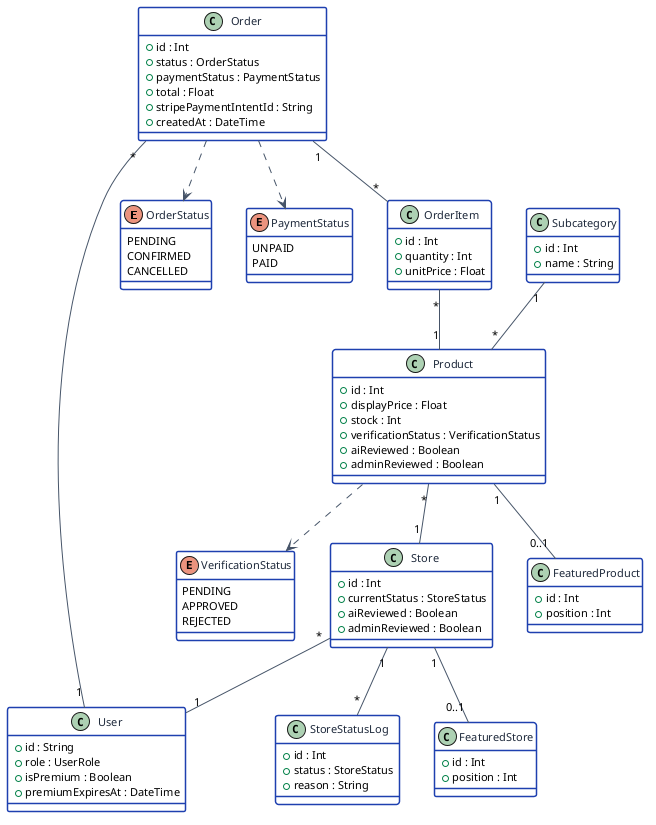
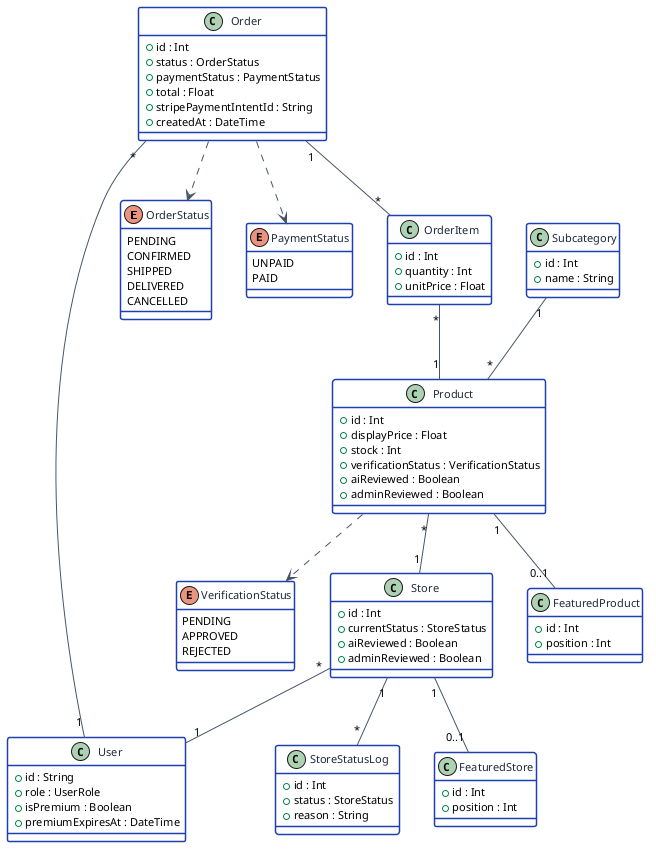
fix: resolve two cross-chapter contradictions found in review
- premium-timing: US09 (operate multiple stores) and the premium
  customisation set are scheduled in Release 1 / Sprint 2, but the
  premium tier that enables them lands in Release 2 / Sprint 4 (where
  Ch.4 states premium "unlocks ... several stores"). Generalise the
  Sprint 2 note so the premium-tiered capabilities (full customisation,
  multiple stores US09, AI redesign US35) are described as built on the
  storefront foundation in Sprint 2 with their entitlement delivered by
  the premium tier in Release 2 — reconciling Ch.3 and Ch.4
- class diagram: the Release 2 class-diagram subset listed OrderStatus as
  PENDING/CONFIRMED/CANCELLED, contradicting the Ch.2 global class
  diagram (PENDING/CONFIRMED/SHIPPED/DELIVERED/CANCELLED). Align the
  subset to the same five values

diff --git a/chap_03.tex b/chap_03.tex
@@ -293,10 +293,13 @@ editor, populate a product catalogue with images and tags, and run a
 store-wide sale; customers can browse that catalogue by category. The
 storefront editor is built with \textbf{Craft.js}~\cite{craftjs}, where clicking any
 section on the live canvas opens its settings panel, with undo/redo and
-preset starting points. The sprint also delivers the AI-assisted
-storefront redesign: the redesign mechanism is built alongside the
-editor here, while its premium entitlement (US35) is finalised in
-Release~2.
+preset starting points. Several capabilities exposed here are
+\textbf{premium-tiered}: the full customisation set, the operation of
+multiple stores (US09) and the AI-assisted storefront redesign (US35) are
+built on the storefront foundation in this sprint, but their premium
+\emph{entitlement} is delivered by the premium tier in Release~2
+(Chapter~\ref{chap:release2}); until then free accounts use the curated
+subset and a single store.
 
 \subsection{Sprint Use-Case Diagram}
 